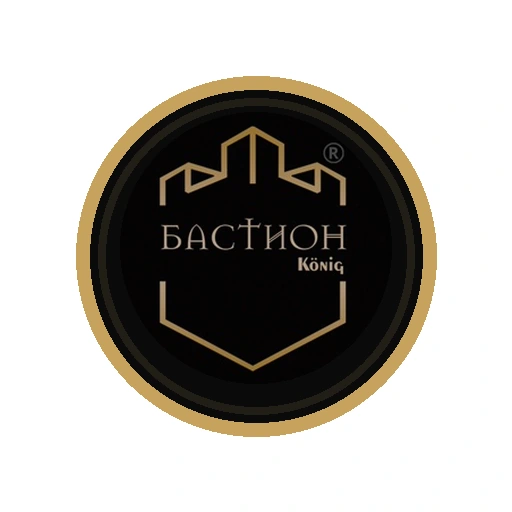
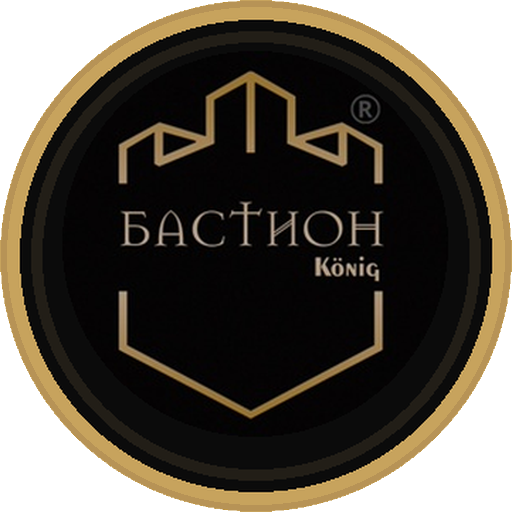
Use shared circular medallion assets and omit time on until dates

diff --git a/site/scripts/normalize-organizer-medallions.py b/site/scripts/normalize-organizer-medallions.py
@@ -1,0 +1,54 @@
+#!/usr/bin/env python3
+"""Prepare the same circular assets for website, VK and Telegram consumers."""
+from __future__ import annotations
+
+import json
+import math
+from pathlib import Path
+import sys
+
+from PIL import Image, ImageChops, ImageDraw, ImageOps
+
+ROOT = Path(__file__).resolve().parents[2]
+MANIFEST = ROOT / 'site/src/data/organizerMedallions.json'
+
+
+def normalize(source: Image.Image, ring: str = '#D9D5CB') -> Image.Image:
+    image = source.convert('RGBA')
+    bounds = image.getchannel('A').getbbox()
+    corner = image.getpixel((0, 0))
+    if image.getchannel('A').getextrema() == (255, 255) and min(corner[:3]) >= 245:
+        difference = ImageChops.difference(image.convert('RGB'), Image.new('RGB', image.size, corner[:3]))
+        ink = difference.convert('L').point(lambda value: 255 if value > 12 else 0)
+        bounds = ink.getbbox()
+        crop = image.crop(bounds) if bounds else image
+        ink = ink.crop(bounds) if bounds else ink
+        radius = max((math.hypot(x - crop.width / 2, y - crop.height / 2)
+                      for y in range(crop.height) for x in range(crop.width) if ink.getpixel((x, y))), default=1)
+        scale = min(500 / max(crop.size), 248 / radius)
+        crop = crop.resize(tuple(max(1, round(side * scale)) for side in crop.size), Image.Resampling.LANCZOS)
+        image = Image.new('RGBA', (512, 512), corner)
+        image.alpha_composite(crop, ((512 - crop.width) // 2, (512 - crop.height) // 2))
+    else:
+        image = ImageOps.fit(image.crop(bounds) if bounds else image, (512, 512), method=Image.Resampling.LANCZOS)
+    mask = Image.new('L', image.size)
+    ImageDraw.Draw(mask).ellipse((0, 0, 511, 511), fill=255)
+    image.putalpha(ImageChops.multiply(image.getchannel('A'), mask))
+    ImageDraw.Draw(image).ellipse((1, 1, 510, 510), outline=ring, width=6)
+    return image
+
+
+def build(slugs: list[str]) -> None:
+    for item in json.loads(MANIFEST.read_text())['items']:
+        if item['slug'] not in slugs:
+            continue
+        urls = [item.get('fallbackPngUrl'), item['avatarUrl']]
+        paths = [ROOT / 'site/public' / url.lstrip('/') for url in urls if url]
+        with Image.open(paths[0]) as source:
+            image = normalize(source, item.get('ring', '#D9D5CB'))
+        for path in dict.fromkeys(paths):
+            image.save(path, 'WEBP' if path.suffix == '.webp' else 'PNG', lossless=True)
+
+
+if __name__ == '__main__':
+    build(sys.argv[1:])

diff --git a/tests/test_organizer_medallion_assets.py b/tests/test_organizer_medallion_assets.py
@@ -1,0 +1,45 @@
+import json
+import subprocess
+from pathlib import Path
+from types import SimpleNamespace
+
+from PIL import Image, ImageChops
+import pytest
+
+from tg_graphic_medallions import resolve_event_graphic_medallions
+
+ROOT = Path(__file__).resolve().parents[1]
+
+
+@pytest.mark.parametrize('slug,name', [('bar-bastion', 'Бар Бастион'),
+                                      ('dom-kitoboya', 'Дом китобоя'),
+                                      ('dom-semyi', 'Дом семьи')])
+def test_site_and_vk_share_normalized_circular_assets(slug, name):
+    manifest = json.loads((ROOT / 'site/src/data/organizerMedallions.json').read_text())
+    item = next(item for item in manifest['items'] if item['slug'] == slug)
+    script = """
+import {resolveEventMedallions} from './site/src/lib/eventMedallions.ts';
+import {readFileSync} from 'node:fs';
+const items = JSON.parse(readFileSync('site/src/data/organizerMedallions.json','utf8')).items;
+const event = {venue_name: process.argv[1], organizer_names: [], source_urls: []};
+console.log(JSON.stringify(resolveEventMedallions(event, items).identities.map(x => x.item.slug)));
+"""
+    result = subprocess.check_output(['node', '--experimental-strip-types', '--input-type=module',
+                                      '-e', script, name], cwd=ROOT, text=True)
+    assert json.loads(result) == [slug]
+    site_path = ROOT / 'site/public' / item['avatarUrl'].lstrip('/')
+    fallback = ROOT / 'site/public' / item['fallbackPngUrl'].lstrip('/')
+    resolved = resolve_event_graphic_medallions(SimpleNamespace(location_name=name))
+    assert Path(next(m for m in resolved if m['slug'] == slug)['asset_path']) == fallback
+    with Image.open(fallback) as png, Image.open(site_path) as webp:
+        png, webp = png.convert('RGBA'), webp.convert('RGBA')
+        assert png.size == webp.size == (512, 512)
+        assert png.getpixel((0, 0))[3] == 0
+        assert png.getpixel((256, 256))[3] == 255
+        assert png.getchannel('A').getbbox() == (0, 0, 512, 512)
+        background = Image.new('RGBA', png.size, '#E9EDE1')
+        difference = ImageChops.difference(Image.alpha_composite(background, png).convert('RGB'),
+                                         Image.alpha_composite(background, webp).convert('RGB'))
+        assert difference.getbbox() is None
+        if slug == 'bar-bastion':
+            assert max(png.getpixel((12, 256))[:3]) < 240  # No white field inside the circle.

diff --git a/vk_event_relations.py b/vk_event_relations.py
@@ -9,7 +9,7 @@ import logging
 import random
 from pathlib import Path
 
-from PIL import Image, ImageChops, ImageDraw, ImageFont, ImageOps
+from PIL import Image, ImageDraw, ImageFont
 from sqlalchemy import select
 from models import Event, Setting, JobOutbox, JobStatus
 
@@ -129,19 +129,10 @@ def render_card(items, *, schedule=False):
         if row.get('is_free'):
             medallions = medallions[:1] + ['site/public/assets/badges/free-listing-medallion.png']
         medallions = medallions[:2]
-        mask = Image.new('L', (100, 100))
-        ImageDraw.Draw(mask).ellipse((0, 0, 99, 99), fill=255)
         for index, asset in enumerate(medallions):
             medal = Image.open(ROOT / asset).convert('RGBA')
-            bounds = medal.getchannel('A').getbbox()
-            if medal.getchannel('A').getextrema() == (255, 255):
-                background = Image.new('RGB', medal.size, medal.getpixel((0, 0))[:3])
-                bounds = ImageChops.difference(medal.convert('RGB'), background).getbbox()
-            medal = ImageOps.fit(medal.crop(bounds) if bounds else medal, (100, 100), method=Image.Resampling.LANCZOS)
-            medal.putalpha(ImageChops.multiply(medal.getchannel('A'), mask))
-            x = 974 - (len(medallions) - index) * 108
-            layer.alpha_composite(medal, (x, 36))
-            rd.ellipse((x, 36, x + 99, 135), outline=palette.card_stroke, width=1)
+            medal.thumbnail((100, 100), Image.Resampling.LANCZOS)
+            layer.alpha_composite(medal, (974 - (len(medallions) - index) * 108, 36))
         width = 738 - len(medallions) * 108 - (20 if medallions else 0)
         title = _strip_emoji(row['title']).strip()
         y = 20

diff --git a/guide_excursions/visual_digest.py b/guide_excursions/visual_digest.py
@@ -893,19 +893,21 @@ def _draw_date_tile(draw: ImageDraw.ImageDraw, row: Mapping[str, Any], row_h: in
     mon_txt = mon.upper()
     bb = draw.textbbox((0, 0), mon_txt, font=f_mon)
     draw.text((x + w / 2 - (bb[2] - bb[0]) / 2, y + 12 - (bb[1] / 2)), mon_txt, font=f_mon, fill=(255, 255, 255))
-    meta = " · ".join(p for p in (wd, time_text) if p) if time_text else wdf
+    prefix = _plain(row.get("date_prefix"))
+    meta = "" if prefix == "до" else (" · ".join(p for p in (wd, time_text) if p) if time_text else wdf)
     day_bb = draw.textbbox((0, 0), day, font=f_day)
     meta_bb = draw.textbbox((0, 0), meta, font=f_meta)
     day_h, meta_h = day_bb[3] - day_bb[1], meta_bb[3] - meta_bb[1]
-    top = y + bar_h + (tile_h - bar_h - day_h - 8 - meta_h) / 2
-    prefix = _plain(row.get("date_prefix"))
+    gap = 8 if meta else 0
+    top = y + bar_h + (tile_h - bar_h - day_h - gap - meta_h) / 2
     prefix_w = draw.textlength(prefix + " ", font=f_meta) if prefix else 0
     day_x = x + (w - (day_bb[2] - day_bb[0]) - prefix_w) / 2
     if prefix:
         prefix_bb = draw.textbbox((0, 0), prefix, font=f_meta)
         draw.text((day_x, top + day_h - prefix_bb[3]), prefix, font=f_meta, fill=_hex(pal.text))
     draw.text((day_x + prefix_w - day_bb[0], top - day_bb[1]), day, font=f_day, fill=_hex(pal.text))
-    draw.text((x + (w - meta_bb[2] + meta_bb[0]) / 2 - meta_bb[0], top + day_h + 8 - meta_bb[1]), meta, font=f_meta, fill=_hex(pal.route))
+    if meta:
+        draw.text((x + (w - meta_bb[2] + meta_bb[0]) / 2 - meta_bb[0], top + day_h + gap - meta_bb[1]), meta, font=f_meta, fill=_hex(pal.route))
 
 
 def render_visual_digest_card(

diff --git a/tests/test_vk_event_relations.py b/tests/test_vk_event_relations.py
@@ -413,3 +413,22 @@ async def test_related_comment_resolves_public_linked_header_once(tmp_path, monk
         assert sum(method == 'wall.createComment' for method, _ in calls) == 1
     finally:
         await db.close()
+
+
+def test_until_tile_has_no_weekday_or_time_but_normal_tile_keeps_them(monkeypatch):
+    from guide_excursions.visual_digest import _draw_date_tile, PALETTES
+    from PIL import Image, ImageDraw
+    rendered = []
+    original = ImageDraw.ImageDraw.text
+    def capture(self, xy, text, *args, **kwargs):
+        rendered.append(text)
+        return original(self, xy, text, *args, **kwargs)
+    monkeypatch.setattr(ImageDraw.ImageDraw, 'text', capture)
+    draw = ImageDraw.Draw(Image.new('RGB', (250, 200)))
+    _draw_date_tile(draw, {'date': '2027-05-30', 'time': '11:00', 'date_prefix': 'до'},
+                    174, PALETTES[0].accents[0], PALETTES[0])
+    assert rendered == ['МАЯ', 'до', '30']
+    rendered.clear()
+    _draw_date_tile(draw, {'date': '2027-05-30', 'time': '11:00'},
+                    174, PALETTES[0].accents[0], PALETTES[0])
+    assert 'вс · 11:00' in rendered

diff --git a/docs/features/vk-publishing/README.md b/docs/features/vk-publishing/README.md
@@ -239,3 +239,7 @@ Only a newly created managed scheduled announcement enqueues `vk_calendar_commen
 The configured user uploads the ICS, waits for the upload response and `docs.save`, then creates the comment without `from_group`. Each document API step and the multipart upload are paced by four seconds, matching the qualified live pilot; this is application pacing, not a claimed VK requirement. The saved document is reused after failures, and document-matching recovery accepts previous group comments and user comments. A saved comment receipt performs no further VK calls. Related-event comments retain their separate payload and lifecycle.
 
 Карточки похожих событий используют дату окончания с «до» для многодневных событий, одинаковый небольшой отступ до времени, круглые медальоны одинакового видимого размера и существующее краткое описание шрифтом Cygre Regular, только когда оно помещается целиком. При отказе PNG-загрузки сначала пробуется JPEG полного разрешения, чтобы текстовая карточка не уменьшалась сразу до 800/400 пикселей.
+
+Медальоны не корректируются отдельно в VK: все потребители используют подготовленные круговые ресурсы из organizerMedallions.json. normalize-organizer-medallions.py формирует одинаковые PNG и lossless WebP; сайт использует avatarUrl, VK/Telegram fallbackPngUrl того же ресурса. Исправление полей, формы и видимого диаметра делается в общем asset и сразу относится ко всем потребителям.
+
+Под датой окончания с «до» день недели и время не выводятся: это граница длительного события, а не отдельный сеанс. Обычный сеанс сохраняет день недели и время с общим постоянным отступом.

diff --git a/docs/reports/incidents/INC-2026-11-12-related-vector-build-claim.md b/docs/reports/incidents/INC-2026-11-12-related-vector-build-claim.md
@@ -394,3 +394,5 @@ The owner rejected category-based filtering: related events must be determined b
 Stored related_v1 vectors and compact RPC agreed: basketball 10990 to literature 9857 cosine 0.7661417, to KVN 10977 cosine 0.8127152, to basketball 10992 cosine 0.9140409. Stored input included generated category, type, topics (including regional labels) and venue. The graph also promoted the literature pair at 0.76 for category equality and mixed facet/category/place/date bonuses into ranking. The proposed sports-category guard was rejected and removed before commit or deployment.
 
 A four-document ablation through the canonical metered Gemini embedding client, with no projection writes, used title once plus summary/description only. Cosines became 0.6890287 (literature), 0.7769320 (KVN), 0.8328616 (basketball). The existing 0.80 vector threshold separates this positive/negative control without category rules. Fix removes metadata from related input and all non-vector promotions from pgvector ranking/reciprocity; query-search facets remain unchanged. Normal vector sync must rebuild changed related hashes before live acceptance. Retained evidence: stored-related-vector-evidence-20261114.json and content-only-vector-ablation-20261114.jsonl in the canonical task artifact directory. No old VK posts/comments are rewritten.
+
+Owner correction before PR953 release: medallion padding/shape is fixed in shared PNG/WebP resources and one asset normalizer; VK-local geometry correction was removed. Website and Python resolvers use the same catalog and three real venue controls, decoded PNG/WebP pixels agree. The site lab shows the existing component for those venues. Full website build/publication remains deferred. Date tiles marked «до» suppress weekday/time as required by Slack1794645281.863839.

diff --git a/docs/features/static-site-pages/design-system/README.md b/docs/features/static-site-pages/design-system/README.md
@@ -75,3 +75,7 @@ The normative design-system architecture lives in `onedayonemasterpiece/lovekgd-
 - `receipts/penpot/resource-graph-to-be-structure-v1.json`.
 
 The integrated Product Atlas/UI Exploration vision in this repository must reference these documents rather than duplicate the Resource Graph page schema or component authority rules.
+
+## Общие медальонные ресурсы
+
+Сайт, VK и Telegram используют единый curated organizerMedallions.json и подготовленные круговые ресурсы. site/scripts/normalize-organizer-medallions.py нормализует поля и видимый диаметр и сохраняет одинаковые PNG и lossless WebP. Исправление ресурса относится ко всем потребителям; локальная коррекция формы в VK renderer не применяется. В /lab/design-system/ существующий EventTokenMedallions показывает контрольные площадки «Бастион», «Дом китобоя» и «Дом семьи». Это исправление ошибочных исходных ресурсов; API и геометрия существующего компонента не меняются.

diff --git a/CHANGELOG.md b/CHANGELOG.md
@@ -13,7 +13,7 @@
 
 ### Fixed
 - Event similarity embeds only factual title/summary/description and uses cosine without category/facet/title boosts; PNG VK cards first retry as full-resolution JPEG.
-- Polish VK related cards with end-date «до» tiles for multi-day events, consistent date/time spacing, circular medallions and complete short descriptions only where they fit.
+- Polish VK related cards with end-date «до» tiles for multi-day events, consistent date/time spacing, shared website/VK circular medallion assets and complete short descriptions only where they fit.
 - Prepare bounded 1600 px JPEG working copies before VK uploads and image comparisons; preserve canonical sources and reuse their existing image identities.
 - Reuse an existing final identity MATCH for the same event owner instead of running a second semantic merge-identity decision that can contradict it and create a duplicate.
 - Resolve delayed VK recommendation comments against the original combined linked-time publication header, preserving their frozen carousel selection.
